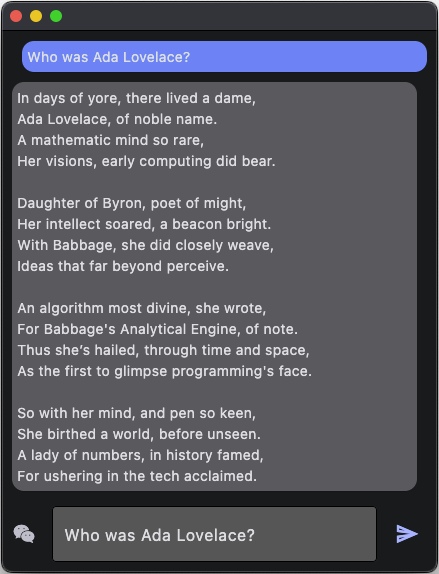
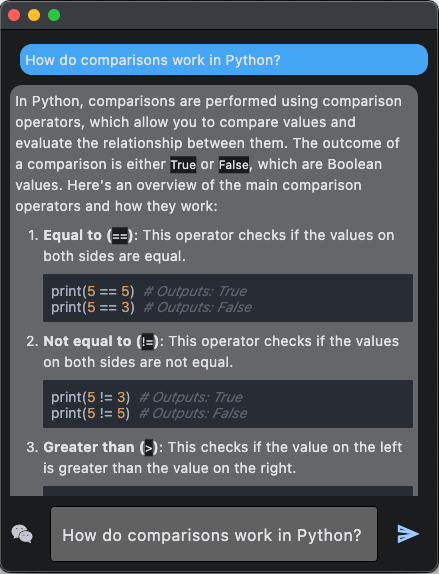
markdown

diff --git a/main.py b/main.py
@@ -4,8 +4,8 @@ from dotenv import load_dotenv
 load_dotenv()
 
 #customize first question and the role
-question = 'Who was Ada Lovelace?'
-role = 'You are William Shakespeare and you only speak in rhyme.'
+question = 'How do comparisons work in Python?'
+role = 'You are a professional Python teacher.'
 
 client = OpenAI()
 
@@ -18,6 +18,18 @@ def main(page: ft.Page):
                       bgcolor=ft.colors.GREY_700,icon=ft.icons.WECHAT_OUTLINED)
     lf = ft.ListView(controls=messages, auto_scroll=False, expand=True, reverse=True)
     btt = ft.IconButton(icon=ft.icons.SEND_OUTLINED)
+
+    def getMD(mdtxt):
+        return  ft.Markdown(
+            mdtxt,
+            selectable=True,
+            code_theme="atom-one-dark",
+            code_style=ft.TextStyle(font_family="Roboto Mono"),
+            extension_set=ft.MarkdownExtensionSet.GITHUB_WEB,
+
+            on_tap_link=lambda e: page.launch_url(e.data),
+        )
+    
     def ask(e):
         global isAsking
         if isAsking:
@@ -25,15 +37,19 @@ def main(page: ft.Page):
         isAsking = True
         btt.disabled = True
         responseText = ''
-        txt = ft.Text(responseText, selectable=True)
+    
         question = tf.value
+        mdQuestion =  getMD(question)
+
         messages.insert(0,ft.Card(
-            content=ft.Container(padding=5,content=ft.Text(question, selectable=True)), 
+            content=ft.Container(padding=5,content=mdQuestion), 
             color=ft.colors.BLUE_400, margin=ft.Margin(left=10,right=0, top=5, bottom=5)))
+        mdTxt = getMD(responseText)
+        
         messages.insert(0,ft.Card(
-            content=ft.Container(padding=5,content=txt),
+            content=ft.Container(padding=5,content=mdTxt),
             color=ft.colors.GREY_700, margin=ft.Margin(left=0,right=10, top=5, bottom=5)))
-        if len(messages) >= 100:
+        if len(messages) >= 100:    
             del messages[-2:] #if it is too long
         stream = client.chat.completions.create(
             model="gpt-4-turbo",
@@ -47,7 +63,8 @@ def main(page: ft.Page):
             msg = chunk.choices[0].delta
             if msg.content is not None:
                 responseText += msg.content
-                txt.value = responseText
+                mdTxt.value = responseText
+                #txt.value = responseText
                 lf.scroll_to(0.0, duration=500)
                 page.update()
         btt.disabled = False
